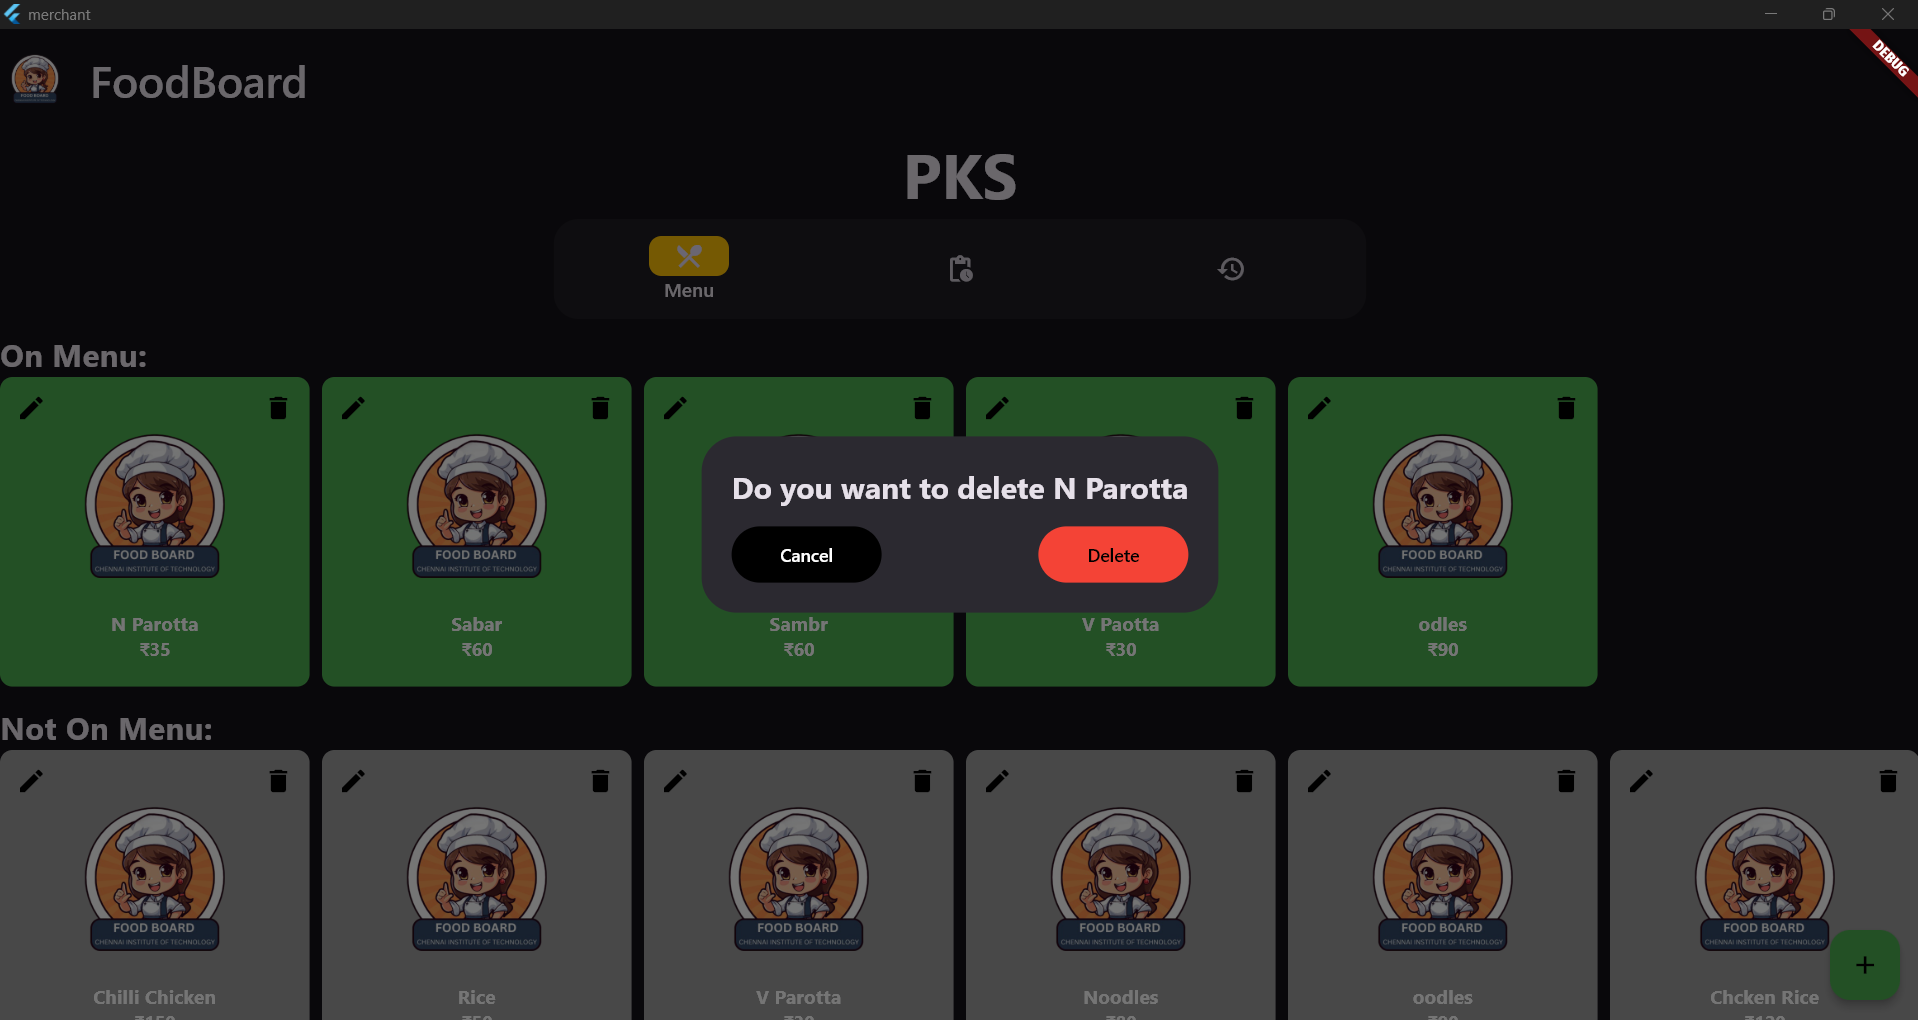
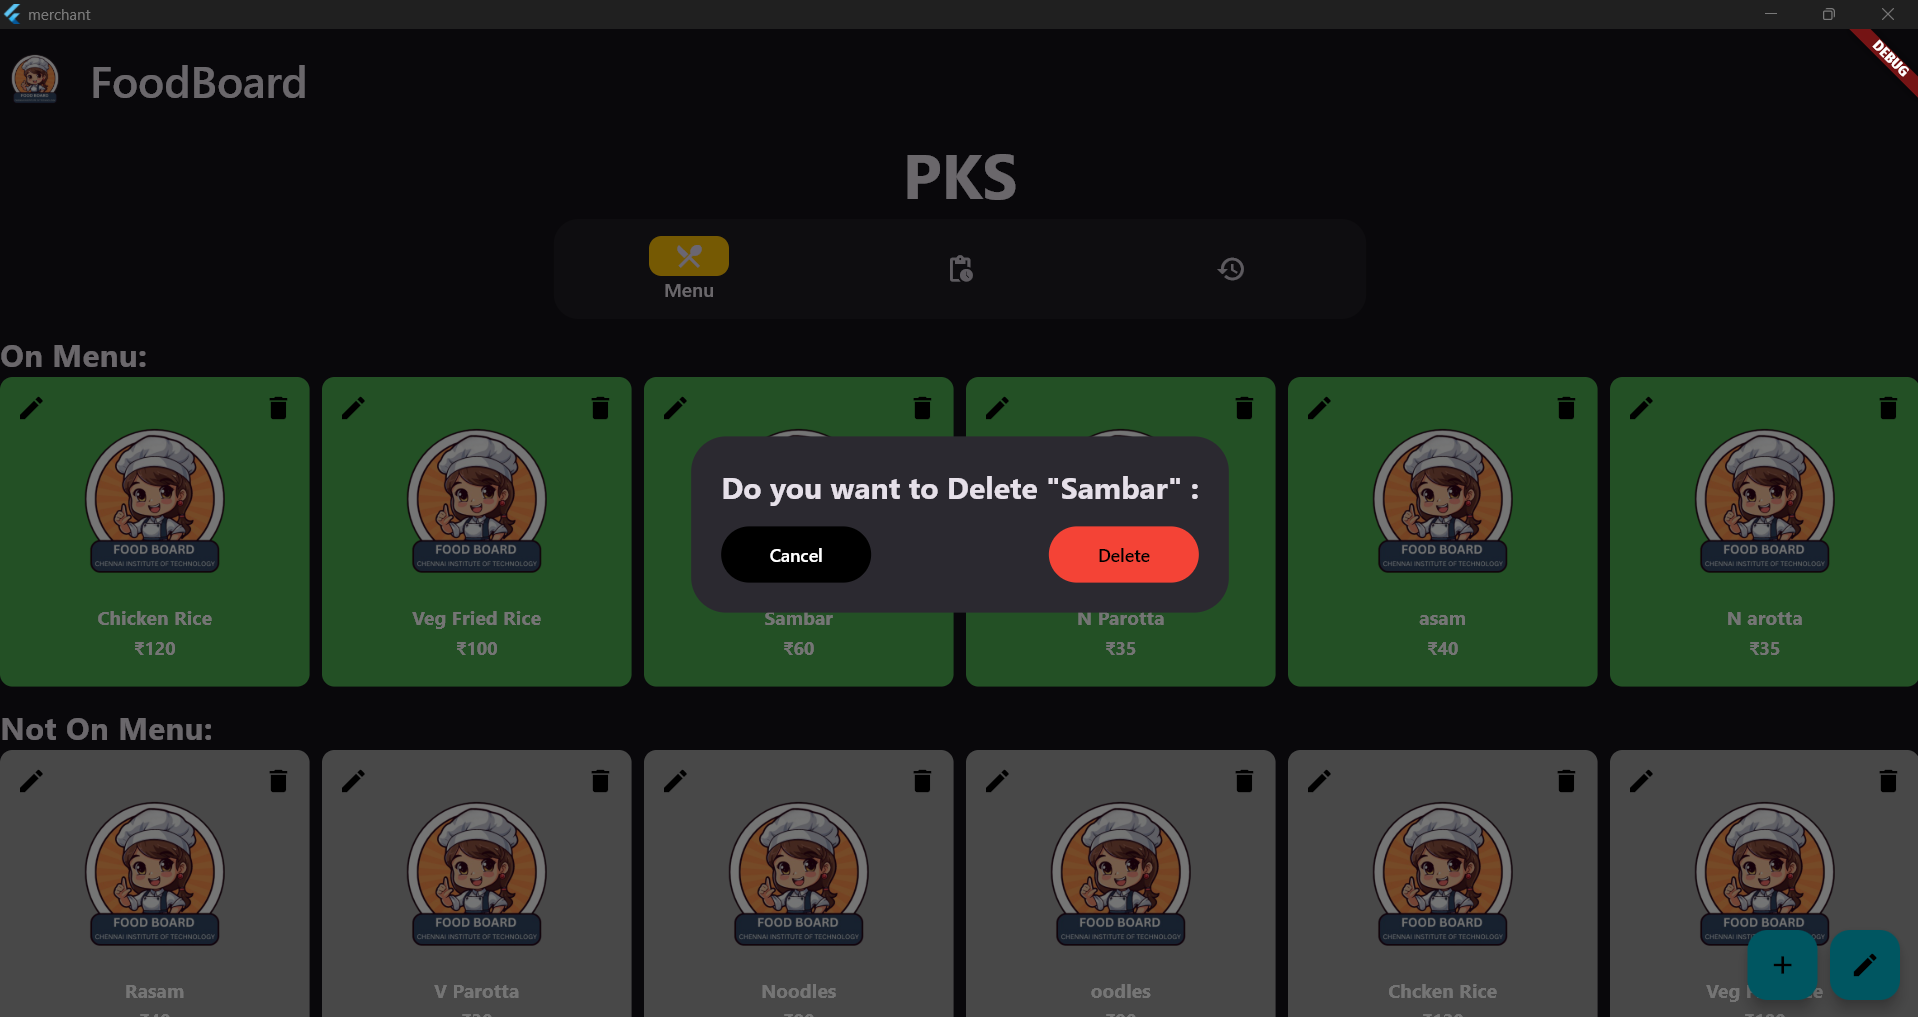
Added Multi-Item Edit Feature

diff --git a/lib/menupage.dart b/lib/menupage.dart
@@ -162,40 +162,7 @@ class _MenupageState extends State<Menupage> {
               ]),
               ),
         ),
-      actions:[TextButton(
-                    style: ButtonStyle(
-                      backgroundColor: WidgetStatePropertyAll(Colors.black), 
-                      foregroundColor: WidgetStatePropertyAll(Colors.white),
-                      padding:WidgetStatePropertyAll(EdgeInsets.all(30.00)),
-                      fixedSize: WidgetStatePropertyAll(Size.fromWidth(132)),
-                      overlayColor: WidgetStatePropertyAll(const Color.fromARGB(255, 37, 113, 255))),
-                    onPressed: () {
-                      String name = controller1.text.trim();
-                      String priceText = controller2.text.trim();
-                      if (name.isEmpty || priceText.isEmpty || int.tryParse(priceText) == null || int.parse(priceText) == 0) {
-                          ScaffoldMessenger.of(context).showSnackBar(
-                            SnackBar(
-                              content: Text(
-                                "Error - Don't feed Empty or Invalid Values",
-                                style: TextStyle(fontSize: 15.00, color: Colors.black, fontWeight: FontWeight.w700),
-                              ),
-                              backgroundColor: Colors.redAccent,
-                            ),
-                          );
-                          return;
-                        }
-                      setState(() {
-                        items[newitemid] = { 
-                          'name': name,
-                          'price': int.parse(priceText)
-                          };
-                        onmenuid.add(newitemid);
-                        newitemid++;
-                        Navigator.pop(context);
-                      });
-                    },
-                    child: Row(spacing: 5.00,children:[Icon(Icons.check,color:Colors.greenAccent),Text("Submit", style:TextStyle(fontWeight: FontWeight.w600))],),
-                  )]
+      actions:[]
       );
     });
   }
@@ -207,11 +174,11 @@ class _MenupageState extends State<Menupage> {
       if (isAdd){
         if (onmenu){
           text = "Remove";
-          text2 = "from On Menu Items";
+          text2 = "from On Menu Items ";
         }
         else{
           text = "Add";
-          text2 = "to menu Items";
+          text2 = "to menu Items ";
         }
       }
       else{
@@ -269,7 +236,7 @@ class _MenupageState extends State<Menupage> {
                   ScaffoldMessenger.of(context).showSnackBar(
                     SnackBar(
                       content: Text(
-                        "Item : $name $text $text2 Successful",
+                        "Item : $name $text $text2""Successful",
                         style: TextStyle(fontSize: 15.0, color: Colors.black, fontWeight: FontWeight.w700),
                       ),
                       backgroundColor: Colors.cyanAccent,
@@ -285,17 +252,169 @@ class _MenupageState extends State<Menupage> {
     },
   );
 }
-        
+  
+  void massEdit() {
+    Map<int, Map<String, dynamic>> changes = {};
+    showDialog(
+      context: context,
+      builder: (context) {
+        return AlertDialog(
+          title:Text("Multiple Item Edit:"),
+          titleTextStyle: TextStyle(
+              fontSize: 25.00,
+              fontWeight: FontWeight.w700,
+          ),
+          clipBehavior: Clip.hardEdge,
+          content: SizedBox(
+            height: 400.00,
+            width: 500.00,
+            child: ListView.builder(
+              shrinkWrap: true,
+              itemCount: items.length,
+              itemBuilder: (BuildContext context, int index) {
+                int itemId = items.keys.elementAt(index);
+                return ListTile(
+                  subtitle: Form(
+                    child: Column(
+                      children: [
+                        Row(
+                          children: [
+                            SizedBox(
+                              width: 200.00,
+                              child: TextFormField(
+                                initialValue: items[itemId]?['name'],
+                                decoration: InputDecoration(labelText: "Item Name"),
+                                onChanged: (String value){ 
+                                  if (value.isEmpty){
+                                    ScaffoldMessenger.of(context).showSnackBar(SnackBar(
+                                    content: Text("Error: Price Cannot be Empty",style: TextStyle(fontSize: 15.00, color:Colors.black, fontWeight: FontWeight.w700),),
+                                    backgroundColor: Colors.redAccent,));
+                                  }
+                                  else{
+                                    changes[itemId]={
+                                      'name' : value,
+                                      'price' : changes.containsKey(itemId) == true ? (changes[itemId]?['price']) : (items[itemId]?['price'])
+                                    };
+                                }
+                                }),
+                            ),
+                            SizedBox(width:10.00),
+                            SizedBox(
+                              width: 90.00,
+                              child: TextFormField(
+                                initialValue: items[itemId]?['price'].toString(),
+                                keyboardType: TextInputType.number,
+                                inputFormatters: [FilteringTextInputFormatter.digitsOnly],
+                                decoration: InputDecoration(labelText: "Price"),
+                                onChanged: (value){ 
+                                  if (value.isEmpty){
+                                    ScaffoldMessenger.of(context).showSnackBar(SnackBar(
+                                    content: Text("Error: Price Cannot be Empty",style: TextStyle(fontSize: 15.00, color:Colors.black, fontWeight: FontWeight.w700),),
+                                    backgroundColor: Colors.redAccent,));
+                                  }
+                                  else{
+                                    changes[itemId]={
+                                      'price' : int.parse(value),
+                                      'name' : changes.containsKey(itemId) == true ? (changes[itemId]?['name']) : (items[itemId]?['name'])
+                                    };
+                                }}
+                              ),
+                            ),SizedBox(width:10.00),
+                            StatefulBuilder(
+                              builder: (context, setState) {
+                              return SizedBox(
+                                width: 135.00,
+                                child: Row(
+                                  mainAxisSize: MainAxisSize.min,
+                                  children: [
+                                    Checkbox(
+                                      value: onmenuid.contains(itemId),
+                                      onChanged: (value) {
+                                        setState(() {
+                                          if (!onmenuid.contains(itemId)) {
+                                            onmenuid.add(itemId);
+                                            offmenuid.remove(itemId);
+                                          } else {
+                                            onmenuid.remove(itemId);
+                                            offmenuid.add(itemId);
+                                          }
+                                      });
+                                      },
+                                    ),
+                                    Text(
+                                      onmenuid.contains(itemId) ? "On Menu" : "Not On Menu",
+                                      style: TextStyle(fontSize: 16))
+                                  ],
+                                ),
+                              );
+                            }),
+                          ],
+                        ),
+                      ],
+                    ),
+                  ),
+                );
+              },
+            ),
+          ),
+          actions: [
+            TextButton(
+              style: ButtonStyle(
+                backgroundColor: WidgetStateProperty.all(Colors.black),
+                foregroundColor: WidgetStateProperty.all(Colors.white),
+                padding: WidgetStateProperty.all(EdgeInsets.all(30.00)),
+                fixedSize: WidgetStateProperty.all(Size.fromWidth(132)),
+                overlayColor: WidgetStateProperty.all(const Color.fromARGB(255, 37, 113, 255)),
+              ),
+              onPressed: () {
+                  setState(() {
+                    for (int i in changes.keys){
+                      if(changes[i]?['name'] != items[i]?['name'] || changes[i]?['price'] != items[i]?['price']){
+                        items[i] = {
+                          'name' : changes[i]?['name'],
+                          'price' : changes[i]?['price']
+                        };
+                      }}
+                      ScaffoldMessenger.of(context).showSnackBar(SnackBar(
+                        content: Text(
+                        "Item Changes are Successful",
+                        style: TextStyle(fontSize: 15.0, color: Colors.black, fontWeight: FontWeight.w700),
+                        ),
+                        backgroundColor: Colors.cyanAccent,
+                        ));
+                      Navigator.pop(context);
+                    });
+              },
+              child: Row(spacing: 5.00,children:[Icon(Icons.check,color:Colors.greenAccent),Text("Submit", style:TextStyle(fontWeight: FontWeight.w600))],),
+            ),
+          ],
+        );
+      },
+    );
+  }
+
   @override
   Widget build(BuildContext context) {
     return Scaffold(
-      floatingActionButton: FloatingActionButton(
+      floatingActionButton: Row(
+        mainAxisAlignment: MainAxisAlignment.end,
+        children: [FloatingActionButton(
         elevation: 10.00,
         backgroundColor: Colors.cyan,
-          child:Icon(Icons.add,color: Colors.black,),
           onPressed: (){
               addNewItem();
-          }),
+          },
+          child: Icon(Icons.add,color: Colors.black)
+          ),
+          SizedBox(width: 10.00),
+          FloatingActionButton(
+            elevation: 10.00,
+            backgroundColor: Colors.cyan,
+            onPressed: () {
+              massEdit();
+            },
+            child: Icon(Icons.edit,color: Colors.black),
+          )]),
       body: SingleChildScrollView(
         child: Column(
           crossAxisAlignment: CrossAxisAlignment.start,
@@ -417,7 +536,7 @@ Widget buildGridSection(Set<int> menuSet, Color bgColor) {
                       right: 5,
                       top: 5,
                       child: IconButton(
-                        hoverColor: Colors.blue,
+                        hoverColor: Colors.red,
                         icon: Icon(Icons.delete, color: Colors.black),
                         onPressed: () {
                           delAddItem(itemId, items[itemId]?['name'], false, false);

diff --git a/README.md b/README.md
@@ -1,22 +1,29 @@
 # Xs-merchant
 
-Current Status:
+Features:
 
-1. Changed Change Rate feature to Modify Items for Changing the both Name and Price
+1. Single Modify Items for Changing the both Name and Price
 ![alt text](image-4.png)
 
-2. Added Delete Item Feature:
-![alt text](image.png)
+ - Changed some Parameters in first 3 items
+ ![alt text](image-6.png)
+
+ Result:
+![alt text](image-7.png)
+
+2. Modify Item in Bulk
+![alt text](image-5.png)
+
+3. Added Reconfirmation for Easy Adding and removing items from Menu
+ - On Menu to Off Menu
+![alt text](image-2.png)
+
+ - Off Menu to On menu
+ ![alt text](image-3.png)
+
+4. Added Delete Item Feature:
+![alt text](image-1.png)
 
 When Clicked the Delete icon:
  - Added Confirmation for deleting Items
 ![alt text](image-1.png)
-
-When Deleted:
- - Snackbar Pops up
-![alt text](image-2.png)
-
-3. Formatted New Item Add
-![alt text](image-3.png)
-
-4. Restricted Name and Price letter Counts
